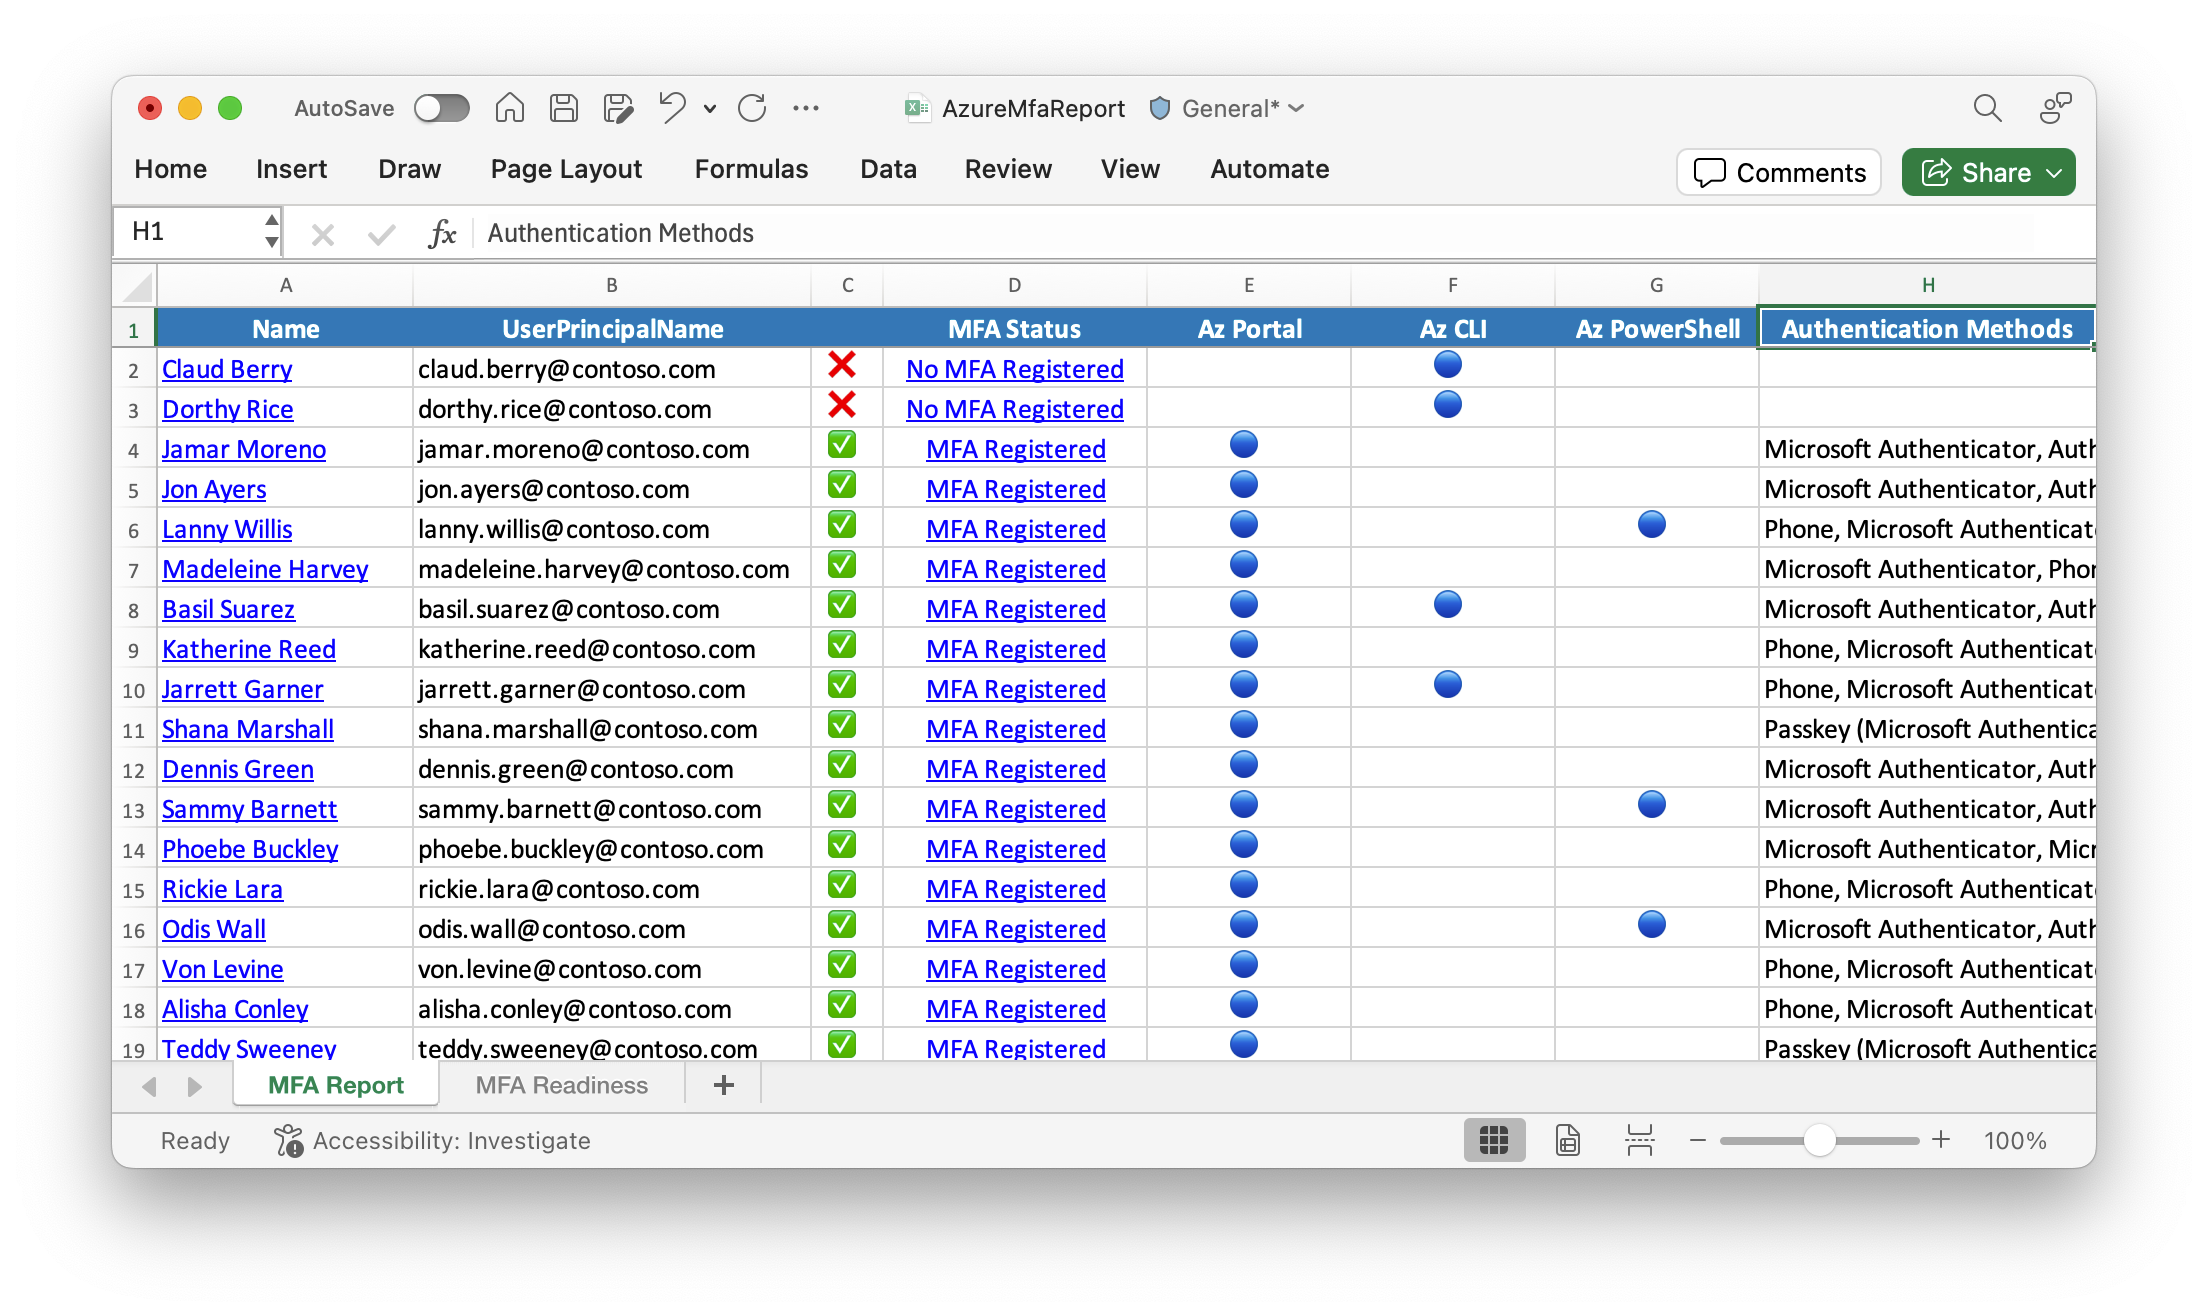
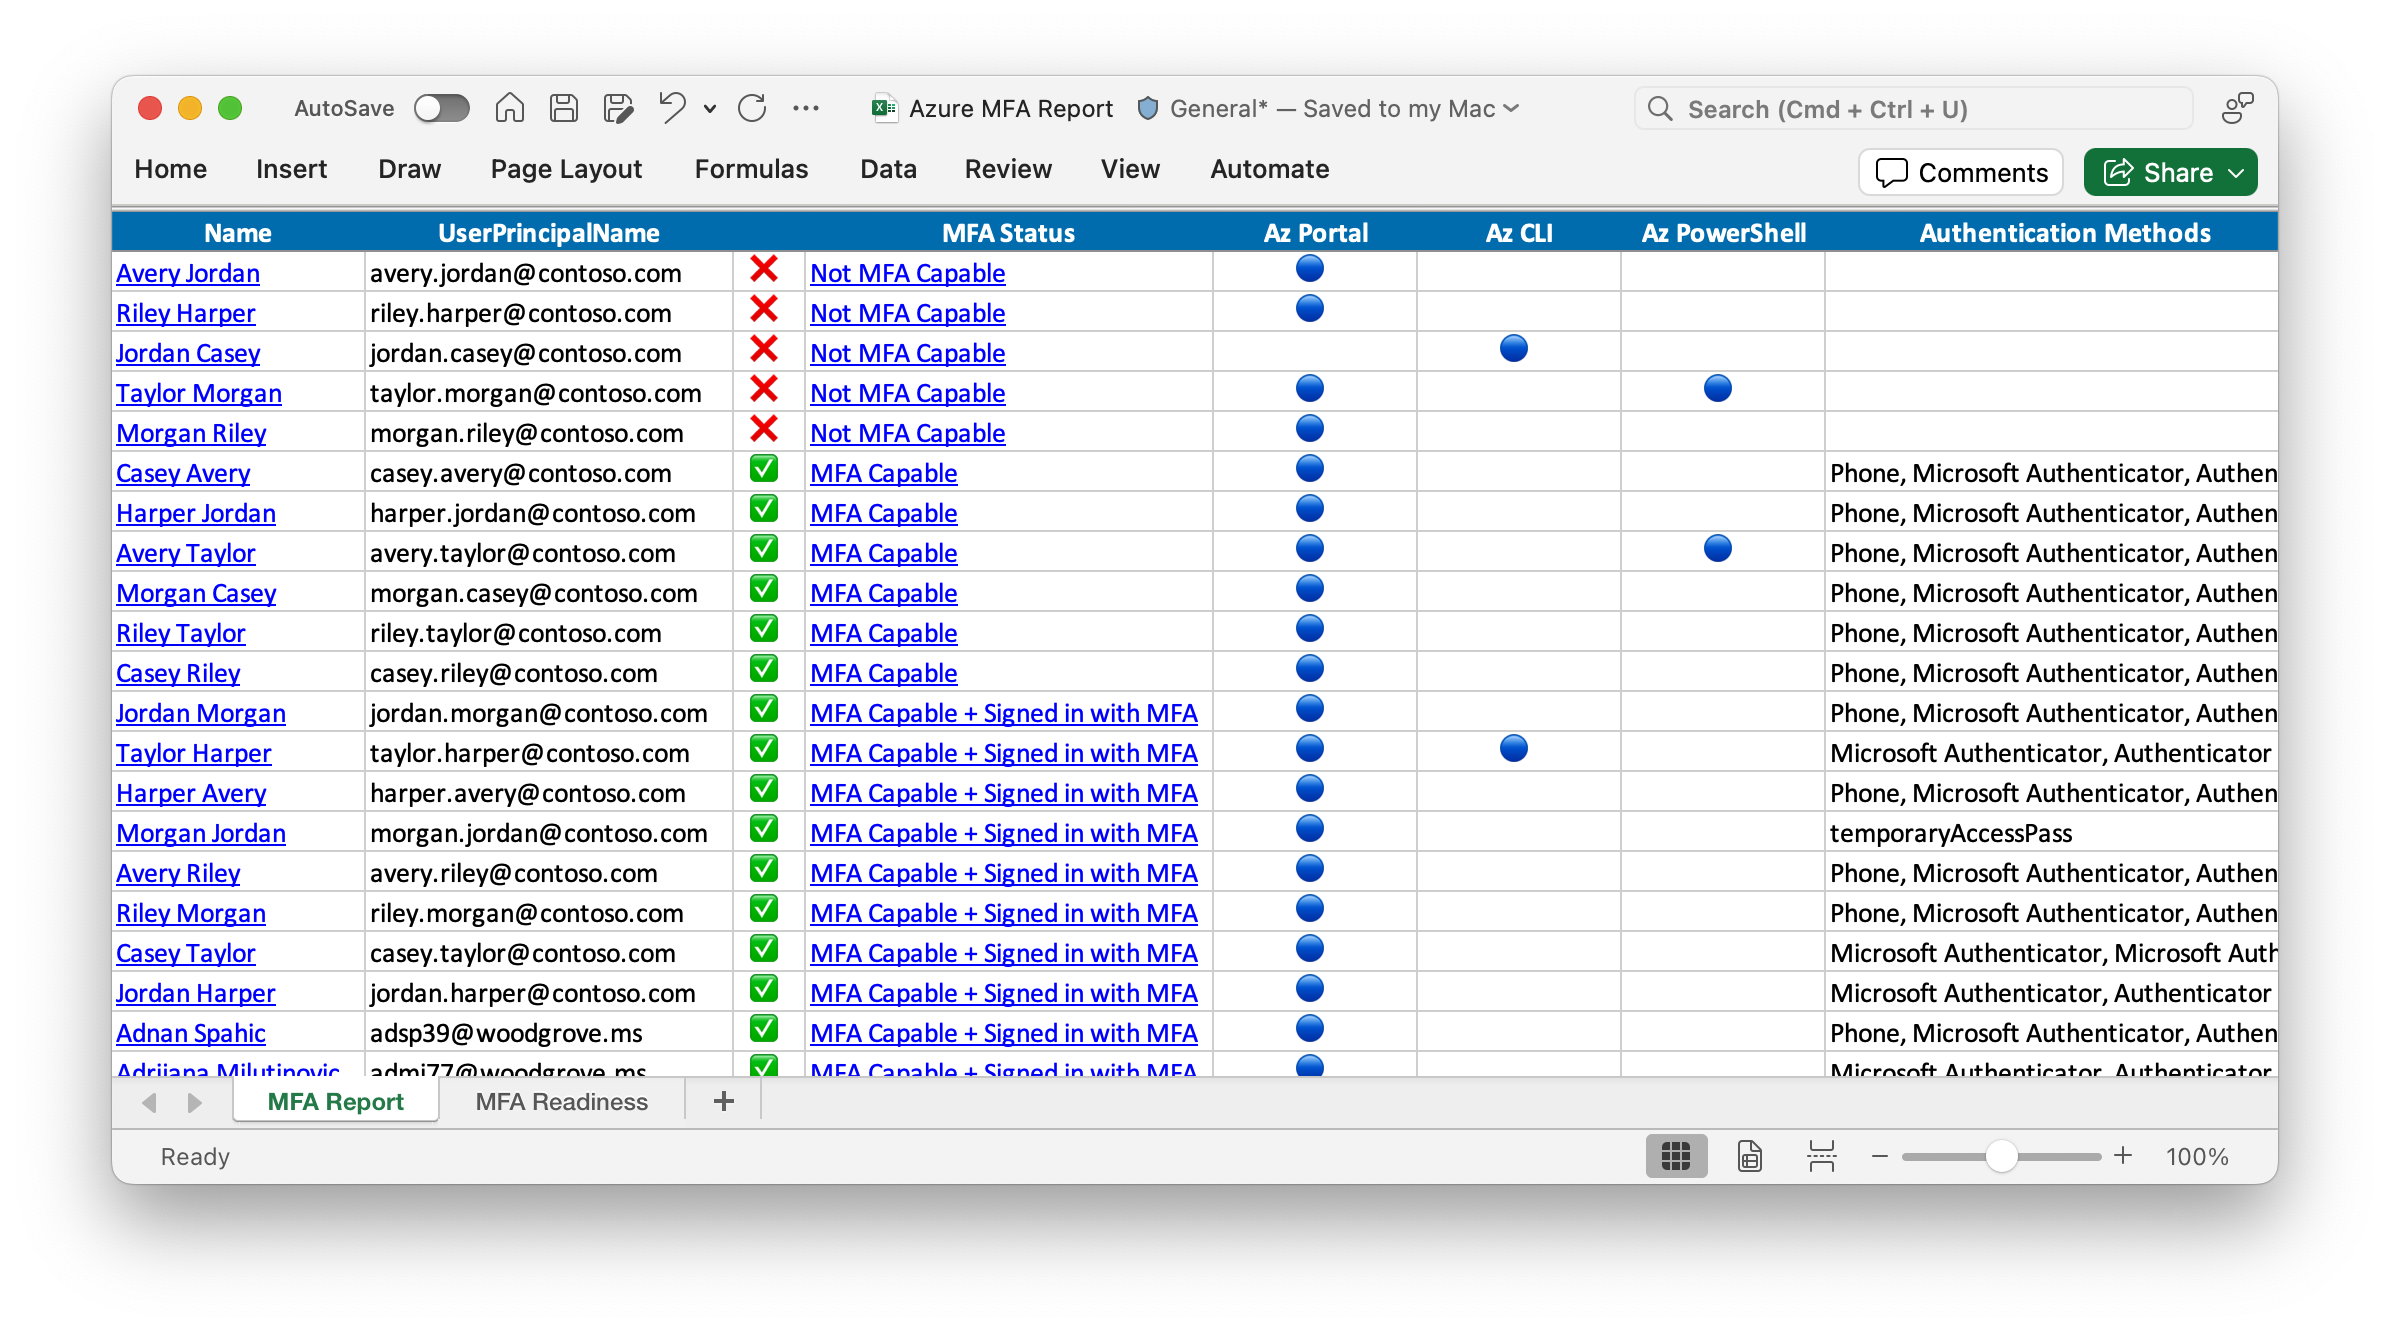
Added MFA status description

Changed region(s): [[0.0312, 0.0623, 0.9688, 0.9035], [0.0312, 0.0623, 0.625, 0.0935]]

diff --git a/website/docs/commands/docusaurus.sidebar.js b/website/docs/commands/docusaurus.sidebar.js
@@ -1,7 +1,7 @@
 /**
  * Import this file in your Docusaurus `sidebars.js` file.
  *
- * Auto-generated by Alt3.Docusaurus.Powershell 1.0.36.
+ * Auto-generated by Alt3.Docusaurus.Powershell 1.0.35.
  *
  * Copyright (c) 2019-present, ALT3 B.V.
  *
